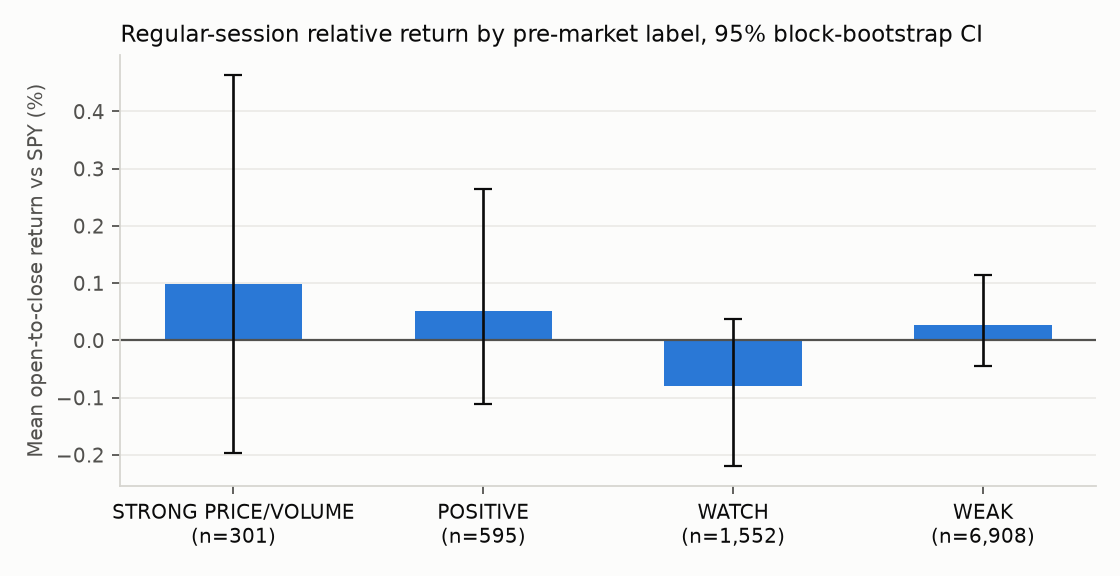
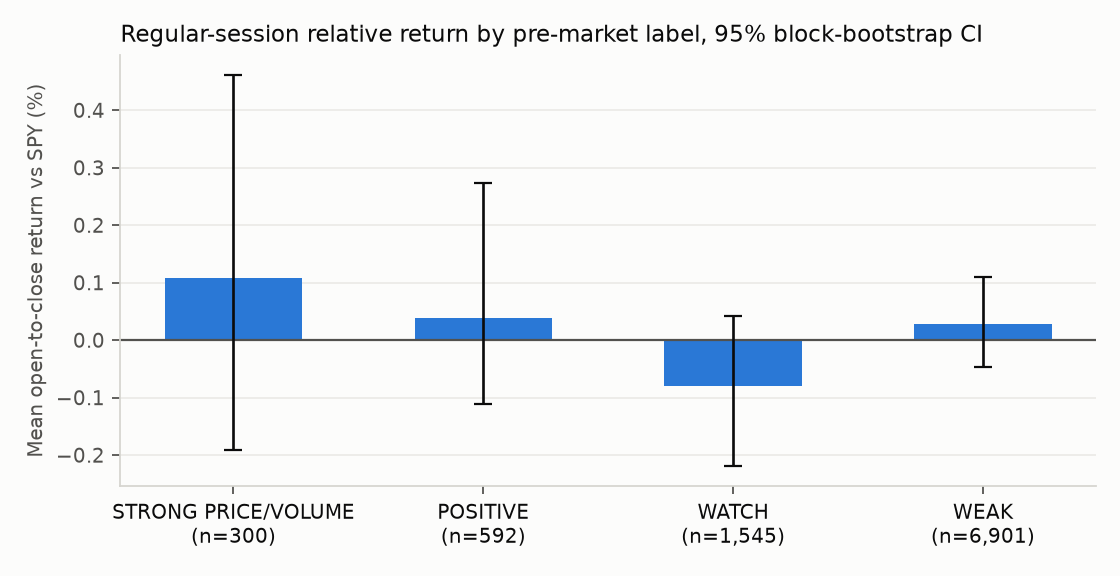
Signal evaluation for 2026-11-09

diff --git a/docs/premarket_evaluation.md b/docs/premarket_evaluation.md
@@ -7,12 +7,12 @@ close, relative to SPY over the same hours?**
 
 ## Summary
 
-*Last evaluated 2026-11-07 on 9,356 ticker-days (2023-11-08 to 2026-11-06), pre-market bars through 08:30 ET, data: alpaca-sip.*
+*Last evaluated 2026-11-09 on 9,338 ticker-days (2023-11-10 to 2026-11-06), pre-market bars through 08:30 ET, data: alpaca-sip.*
 
 | Metric | Estimate | 95% CI |
 |---|---:|---:|
-| Rank IC: pre-market score vs open-to-close return over SPY | -0.022 | [-0.052, +0.002] |
-| Mean return gap: POSITIVE-or-better minus WEAK | +0.04% | [-0.17%, +0.25%] |
+| Rank IC: pre-market score vs open-to-close return over SPY | -0.023 | [-0.051, +0.002] |
+| Mean return gap: POSITIVE-or-better minus WEAK | +0.03% | [-0.16%, +0.24%] |
 | Rank IC: gap vs SPY alone (negative = gaps fade) | -0.016 | |
 
 The 95% interval includes zero, so the data do not show that the pre-market score predicts the regular session. It describes the pre-market well; it is not a forecast.
@@ -21,7 +21,7 @@ The 95% interval includes zero, so the data do not show that the pre-market scor
 ## Setup
 
 - **Universe:** ALAB, AMD, AMZN, CEG, ETN, FSLR, GEV, GOOG, IBM, MRVL, NVDA, SKHY, SPCX, TSLA, VST; benchmark SPY.
-- **Sample:** 752 trading days, 9,356 ticker-days with a full pre-market score.
+- **Sample:** 750 trading days, 9,338 ticker-days with a full pre-market score.
   0 ticker-days with a gap larger than 40% were dropped as
   likely data errors or corporate actions.
 - **Data:** Alpaca SIP feed (trades from every U.S. exchange), 30-minute bars over about 3 years, split-adjusted. Includes pre-market volume.
@@ -38,21 +38,21 @@ The 95% interval includes zero, so the data do not show that the pre-market scor
 
 | label | n | mean | ci_lo | ci_hi | median | hit_rate |
 |---|---:|---:|---:|---:|---:|---:|
-| STRONG PRICE/VOLUME | 301 | +0.10% | -0.20% | +0.46% | -0.07% | 48.5% |
-| POSITIVE | 595 | +0.05% | -0.11% | +0.26% | +0.05% | 51.3% |
-| WATCH | 1,552 | -0.08% | -0.22% | +0.04% | -0.04% | 48.8% |
-| WEAK | 6,908 | +0.03% | -0.04% | +0.12% | -0.01% | 49.7% |
+| STRONG PRICE/VOLUME | 300 | +0.11% | -0.19% | +0.46% | -0.06% | 48.7% |
+| POSITIVE | 592 | +0.04% | -0.11% | +0.27% | +0.03% | 50.8% |
+| WATCH | 1,545 | -0.08% | -0.22% | +0.04% | -0.04% | 48.9% |
+| WEAK | 6,901 | +0.03% | -0.05% | +0.11% | -0.01% | 49.7% |
 
 ## Baselines
 
 | signal | ic |
 |---|---:|
-| Pre-market score (this model) | -0.022 |
+| Pre-market score (this model) | -0.023 |
 | Gap vs SPY only | -0.016 |
 | Gap / ATR only | -0.014 |
 | Pre-market RVOL only | +0.007 |
-| Prior close end-of-day score only | -0.021 |
-| Shuffled score (null) | -0.002 |
+| Prior close end-of-day score only | -0.022 |
+| Shuffled score (null) | +0.000 |
 
 The gap rows answer a classic market-microstructure question directly: a negative IC means
 pre-market moves have tended to reverse after the open (gap fade); a positive IC means they
@@ -62,10 +62,10 @@ have tended to extend (gap continuation).
 
 | removed | ic | change |
 |---|---:|---:|
-| gap | -0.018 | +0.004 |
-| volume | -0.018 | +0.004 |
-| level | -0.027 | -0.005 |
-| context | -0.017 | +0.005 |
+| gap | -0.020 | +0.003 |
+| volume | -0.019 | +0.004 |
+| level | -0.028 | -0.004 |
+| context | -0.018 | +0.006 |
 
 A negative *change* means removing the component lowers the IC, i.e. it was contributing.
 
@@ -74,20 +74,20 @@ A negative *change* means removing the component lowers the IC, i.e. it was cont
 | ticker | n | ic | mean_gap_abs |
 |---|---:|---:|---:|
 | ALAB | 642 | -0.010 | 2.04% |
-| AMD | 752 | +0.015 | 1.51% |
-| AMZN | 752 | -0.020 | 0.80% |
-| CEG | 677 | -0.015 | 1.08% |
-| ETN | 556 | -0.072 | 1.06% |
-| FSLR | 741 | -0.043 | 1.09% |
+| AMD | 750 | +0.013 | 1.51% |
+| AMZN | 750 | -0.020 | 0.80% |
+| CEG | 676 | -0.016 | 1.08% |
+| ETN | 555 | -0.073 | 1.06% |
+| FSLR | 739 | -0.043 | 1.09% |
 | GEV | 630 | -0.082 | 1.22% |
-| GOOG | 752 | -0.028 | 0.78% |
-| IBM | 737 | +0.000 | 0.64% |
-| MRVL | 752 | -0.048 | 1.79% |
-| NVDA | 752 | -0.066 | 1.15% |
+| GOOG | 750 | -0.028 | 0.78% |
+| IBM | 736 | -0.001 | 0.64% |
+| MRVL | 750 | -0.049 | 1.79% |
+| NVDA | 750 | -0.068 | 1.15% |
 | SKHY | 71 | +0.025 | 2.93% |
 | SPCX | 89 | +0.077 | 1.47% |
-| TSLA | 752 | -0.025 | 1.26% |
-| VST | 701 | -0.019 | 1.30% |
+| TSLA | 750 | -0.028 | 1.26% |
+| VST | 700 | -0.020 | 1.30% |
 
 ## Limitations
 

diff --git a/README.md b/README.md
@@ -27,7 +27,7 @@
 - **End-of-day signal: no evidence of predictive power.** The rank IC between the score and the next 5 days' return over SPY is +0.001 (95% CI -0.042 to +0.039) across 14,875 stock-days; a randomly shuffled score gets +0.000.
 <!-- FINDINGS-EOD:END -->
 <!-- FINDINGS-PM:START -->
-- **Pre-market signal: no evidence of predictive power.** The rank IC between the 08:30 ET pre-market score and the same day's open-to-close return over SPY is -0.022 (95% CI -0.052 to +0.002) across 9,356 stock-days; a randomly shuffled score gets -0.002. On their own, the pre-market gap has an IC of -0.016 (negative would mean gaps fade) and pre-market volume +0.007.
+- **Pre-market signal: no evidence of predictive power.** The rank IC between the 08:30 ET pre-market score and the same day's open-to-close return over SPY is -0.023 (95% CI -0.051 to +0.002) across 9,338 stock-days; a randomly shuffled score gets +0.000. On their own, the pre-market gap has an IC of -0.016 (negative would mean gaps fade) and pre-market volume +0.007.
 <!-- FINDINGS-PM:END -->
 - **How it was tested:** a common trading belief, that moves confirmed by volume keep going, is
   turned into a transparent score and tested on end-of-day and pre-market data with
@@ -68,7 +68,7 @@ The project has two halves, each run on end-of-day and on pre-market data:
 ### End-of-day score → next 5 days
 
 <!-- EVAL:START -->
-*Last evaluated 2026-11-07 on 14,875 ticker-days (2021-12-07 to 2026-10-30), 5-day horizon, data: yahoo.*
+*Last evaluated 2026-11-09 on 14,875 ticker-days (2021-12-07 to 2026-10-30), 5-day horizon, data: yahoo.*
 
 | Metric | Estimate | 95% CI |
 |---|---:|---:|
@@ -85,12 +85,12 @@ Full write-up: [docs/evaluation.md](docs/evaluation.md)
 ### Pre-market score → same-day open-to-close
 
 <!-- PREMARKET-EVAL:START -->
-*Last evaluated 2026-11-07 on 9,356 ticker-days (2023-11-08 to 2026-11-06), pre-market bars through 08:30 ET, data: alpaca-sip.*
+*Last evaluated 2026-11-09 on 9,338 ticker-days (2023-11-10 to 2026-11-06), pre-market bars through 08:30 ET, data: alpaca-sip.*
 
 | Metric | Estimate | 95% CI |
 |---|---:|---:|
-| Rank IC: pre-market score vs open-to-close return over SPY | -0.022 | [-0.052, +0.002] |
-| Mean return gap: POSITIVE-or-better minus WEAK | +0.04% | [-0.17%, +0.25%] |
+| Rank IC: pre-market score vs open-to-close return over SPY | -0.023 | [-0.051, +0.002] |
+| Mean return gap: POSITIVE-or-better minus WEAK | +0.03% | [-0.16%, +0.24%] |
 | Rank IC: gap vs SPY alone (negative = gaps fade) | -0.016 | |
 
 The 95% interval includes zero, so the data do not show that the pre-market score predicts the regular session. It describes the pre-market well; it is not a forecast.

diff --git a/docs/evaluation.md b/docs/evaluation.md
@@ -6,7 +6,7 @@ performance relative to the S&P 500 over the next 5 trading days?**
 
 ## Summary
 
-*Last evaluated 2026-11-07 on 14,875 ticker-days (2021-12-07 to 2026-10-30), 5-day horizon, data: yahoo.*
+*Last evaluated 2026-11-09 on 14,875 ticker-days (2021-12-07 to 2026-10-30), 5-day horizon, data: yahoo.*
 
 | Metric | Estimate | 95% CI |
 |---|---:|---:|
